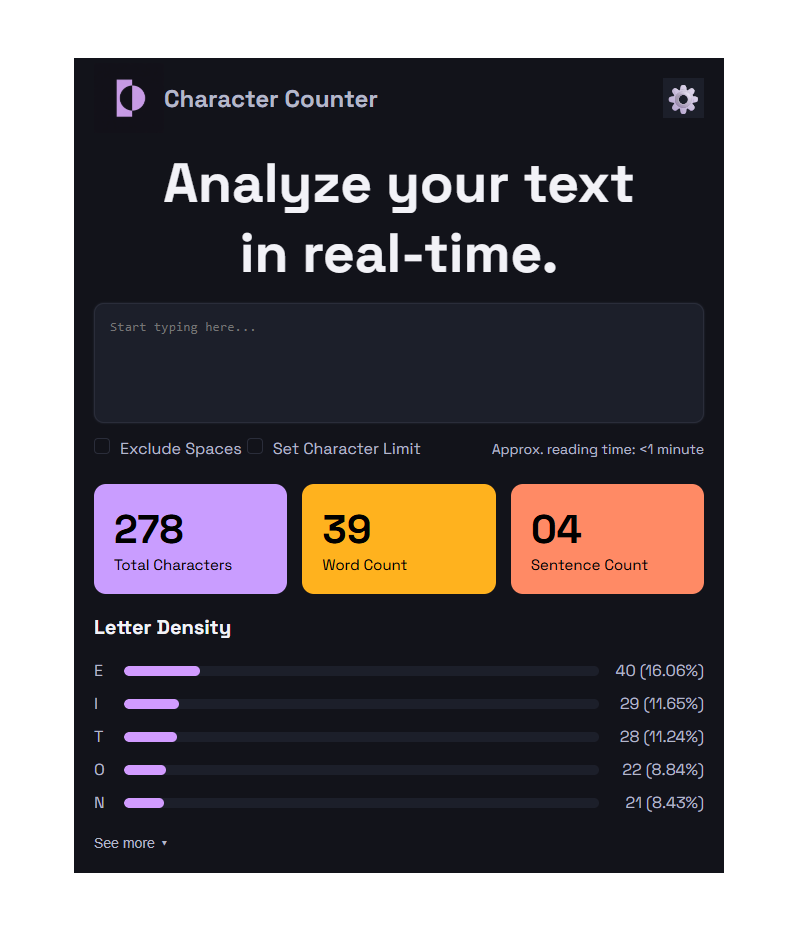
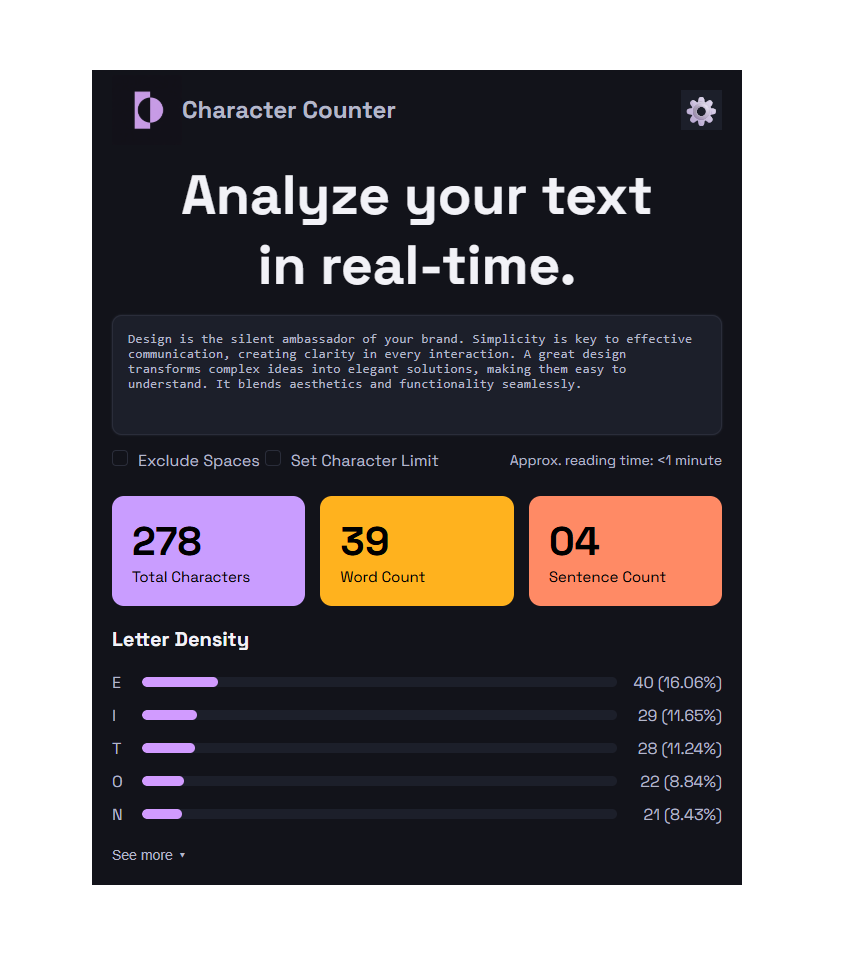
docs: add README

Changed region(s): [[0.0938, 0.0624, 0.9062, 0.9667], [0.1875, 0.1559, 0.8125, 0.3118], [0.3438, 0.4677, 0.5312, 0.4989]]

diff --git a/index.html b/index.html
@@ -15,7 +15,6 @@
                 <h1>Character Counter</h1>
             </div>
             <button>⚙</button> 
-            <!-- explicar despues que hará el boton en el README -->
         </header>
 
         <section class="hero">

diff --git a/style.css b/style.css
@@ -266,4 +266,3 @@ header button{
 .seemore:hover{
     color: var(--text-main);
 }
-

diff --git a/README.md b/README.md
@@ -1,14 +1,44 @@
-# titulo
-## subtitulo
-### sub subtitulo
+# Proyecto de Maquetado Web – Character Counter (HTML + CSS)
+
+## 1. Objetivo del proyecto
+El objetivo principal del proyecto fue replicar la interfaz visual de un contador de caracteres y analisis de texto en tiempo real, usando solamente HTML para la estructura y CSS para estilar.
 
 ---
+
+## 2. Tecnologías utilizadas
+* **HTML5:** Para la estructura semántica del contenido.
+* **CSS3:** Para el diseño visual.
+
 ---
 
-- item lista
-- item lista 2
+## 3. Organización del HTML
+Intenté organizar el HTML de la manera mas sensilla y limpia posible, lo dividi en 5 secciones:
+* `<header>`: Puse el logo del sitio y el titulo en h1, ya que creo que al ser el titulo del proyecto, tiene la mayor jerrquia, a pesar de ser chico que otro texto, con css le di el tamaño correcto. Y tambien tiene un boton de configuracion la derecha, que aun no tiene funcionalidad, mas adelante podrá servir por ejemplo para seleccionar idioma o cambiar de modo oscuro a claro.
+* `<section hero>`: Contiene la consigna principal del proyecto y el elemento `<textarea>` configurado para el ingreso de texto.
+* `<section controls>`: Contiene los checkbox personalizados y el tiempo estimado de lectura.
+* `<section cards>`: Tiene las tres tarjetas de métricas (Total Characters, Word Count y Sentence Count), haciendo de manera visible los resultados del analisis.
+* `<section letter-density>`: Contiene la barra de densidad de letras. Cada fila agrupa de forma independiente la letra correspondiente, la barra contenedora y la información de porcentaje.
 
-```html
-<h1>CODIGO</h1>
-```
+---
 
+## 4. Cómo se resolvió el CSS
+* **Variables CSS (`:root`):** Se definió una serie de colores (colores de fondo, textos, tarjetas) para facilitar el mantenimiento del css.
+* **Maquetado con Flexbox:** Use `display: flex` en el `header`, `controls`, `cards` y en `.row` para lograr alineaciones perfectas.
+* **Barras de Progreso Personalizadas:** Para el apartado Letter Density, con ayuda de chat-gpt, opté por una solución basada en divs (bar y fill). El contenedor `bar` posee flex: 1 para ocupar el centro del espacio disponible, mientras que el elemento interno `fill` determina el progreso visual mediante un porcentaje estático asignado.
+* **Estilos de Inputs Propios:** Quité los estilos nativos de los checkboxes con `appearance: none` para poder personalizar mi propio checkbox, haciendo que el fondo sea oscuro y que aparezca el tilde al seleccionar. Use la ayuda de chat-gpt para lograr el resultado.
+* **Estética visual:** Aplique bordes redondeados (`border-radius`) a algunos componentes y una leve sombra (`box-shadow`) para el `textarea`.
+
+---
+
+## 5. Dificultades encontradas
+* **Checkbox:** La parte de css fue bastante dificil, ya que el checkbox default es bastante feo, y tuve que estilizarla mucho para que quede bien.
+* **Cards:** Me costó asignarle el backround-image que queria a cada una de las cards, al final la deje conun fondo liso y quedo bien.
+* **Letter-density:** Fue una seccion que me costo bastante, ya que no sabia como hacerla, con ayuda de chat-gpt fui entendiendo y haciendo paso a paso, tanto en HTML como en CSS.
+
+---
+
+## 6. Capturas del resultado final
+
+Aqui dejo la captura de pantalla del resultado final, creo que me quedo bastante parecido y creo haber cumplido el objetivo, aunque se que podría mejorar algunas cosas, sobre todo para hacerlo responsive en un futuro.
+
+![Resultado Final](./assets/img/resultado-final.png)
